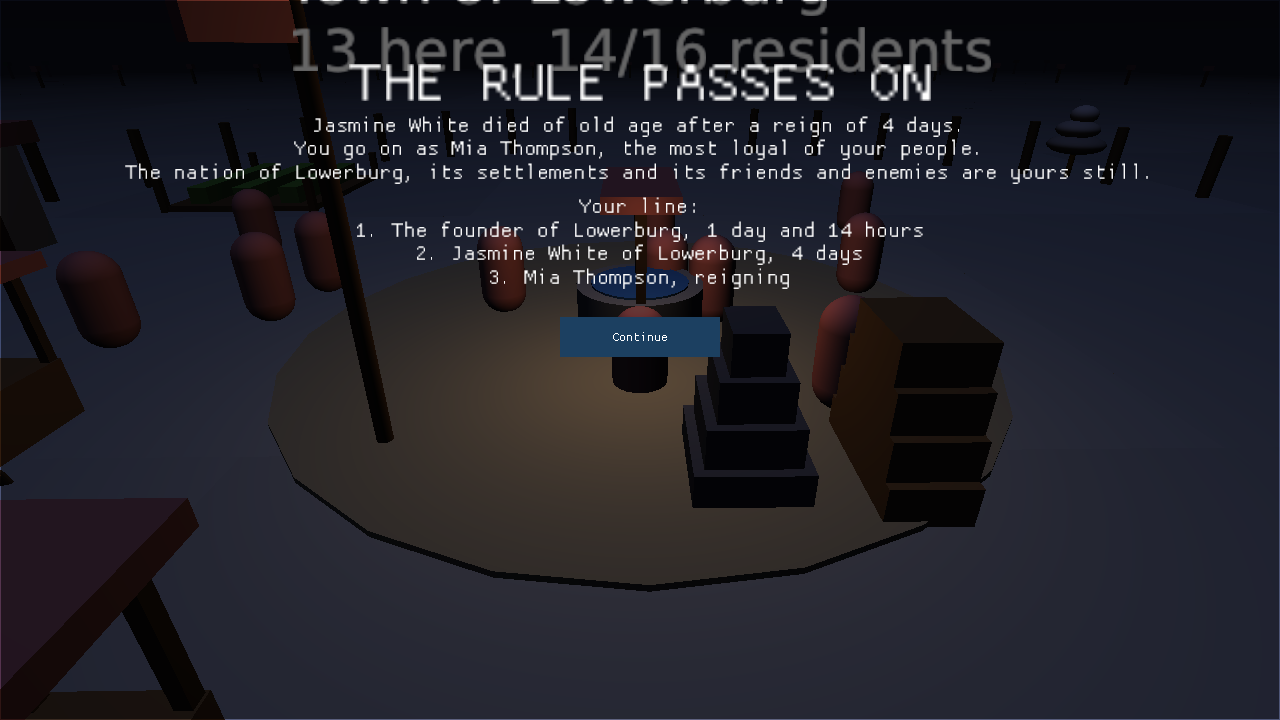
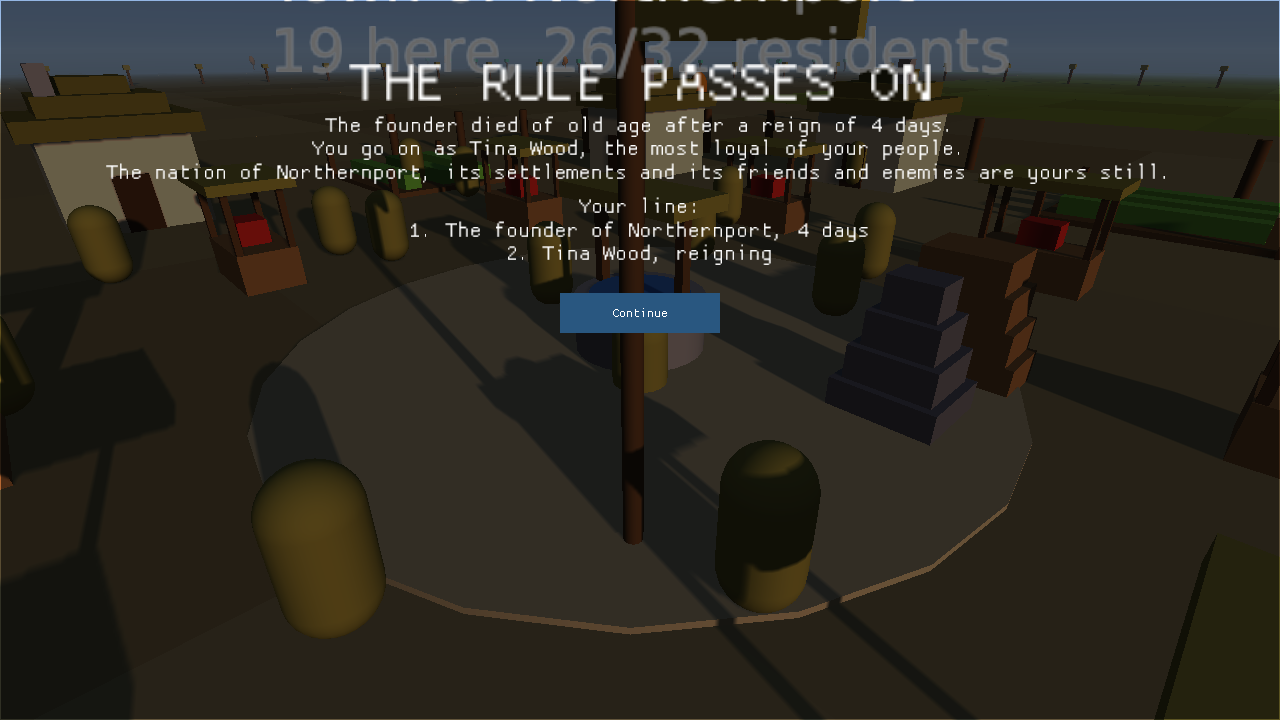
Retake the pacing chart and screenshots on develop with the day-2 Village
Claude-Session: https://claude.ai/code/session_01LYNeukxdP2eURbP7PJnoVK

diff --git a/docs/PACING.md b/docs/PACING.md
@@ -28,23 +28,23 @@ Some late content is not an objective but should come up in a normal session of 
 | `caravan` | the player has a caravan of their own on the road | 30 min |
 | `succession` | the rule has passed to an heir (old age, hunger or abdication) | 60 min |
 
-Measured on seeds 1 to 5 (one hour each): the Storehouse at 17m 13s to 17m 50s (as the Village era comes), the first caravan between a second and four and a half minutes later, and a succession on every seed. The first is of hunger at 13m 01s to 16m 06s (the bot gives its food away recruiting); that heir then grows old, is warned at 46m 10s and dies of old age at 56m 10s on seeds 2, 3 and 4. The binding objectives are unchanged to within a few seconds. Among the advisory ambitions, "Grow your nation to 16" is not reached within the hour on seed 1 (the bot now stops recruiting to put up a storehouse and send caravans, and a new ruler starts with half the old one's standing); neither it nor the others gate the build, and the objective budget is unchanged.
+Measured on seeds 1 to 5 (one hour each), with the Village era at day 2 (#455): the Storehouse at 7m 14s to 7m 49s (as the Village era comes), the first caravan within a minute after it on four seeds (18m 47s on seed 1), and a succession on every seed: of old age at 40m 00s on seeds 4 and 5, of hunger at 32m 33s to 38m 47s on seeds 1 to 3 (the bot gives its food away recruiting). The binding objectives are unchanged to within a few seconds, and the objective budget is unchanged.
 
 ![When the Storehouse, the first caravan and the first succession were reached on seeds 1 to 5](./screenshots/reachable-late-game/pacing-milestones.png)
 
-The chart is drawn from `pacing-report.json` by `python3 tools/pacing-milestones-chart.py pacing-out/pacing-report.json OUT.png src/BeyondNations.Desktop/assets/fonts/DejaVuSans.ttf` (ImageMagick). The screenshots below are the bot's own run on seed 2, saved with `--save-at` and loaded in the game with `--continue` (and `--start-screen laws`). They show:
+The chart is drawn from `pacing-report.json` by `python3 tools/pacing-milestones-chart.py pacing-out/pacing-report.json OUT.png src/BeyondNations.Desktop/assets/fonts/DejaVuSans.ttf` (ImageMagick). The screenshots below are the bot's own run on seed 4, saved with `--save-at` and loaded in the game with `--continue` (and `--start-screen laws`). They show:
 
-- the bot on day 3 of the Village era, just after it sent a caravan of 40 wood;
-- day 5, when the chronicle says the ruler, the heir who took over from a starved founder, is growing old (a drought world event is waiting for an answer, as the bot never answers one);
+- the bot on day 2 of the Village era, just after it sent a caravan of 14 wood (the caravan is on the road ahead);
+- day 4, when the chronicle says the founder is growing old;
 - the Laws tab naming the heir, with when old age comes and *Abdicate*, on desktop and phone;
-- the succession screen when that ruler dies of old age, 56 minutes in.
+- the succession screen when the founder dies of old age, 40 minutes in.
 
 A run consumes the succession notice five seconds after it appears, as a player pressing *Continue* would, so a world saved later does not open on an old succession.
 
 | | |
 |---|---|
-| ![Day 3, Village era: the chronicle says the bot sent a caravan of 40 wood](./screenshots/reachable-late-game/caravan-sent.png) | ![Day 5: the chronicle says the ruler is growing old and names the heir](./screenshots/reachable-late-game/growing-old.png) |
-| ![The Laws tab names the heir, says when old age comes, and offers Abdicate](./screenshots/reachable-late-game/laws-heir-abdicate.png) | ![The succession screen at 56 minutes: the second ruler died of old age after a reign of 4 days](./screenshots/reachable-late-game/succession-old-age.png) |
+| ![Day 2, Village era: the bot's caravan of 14 wood on the road, and the chronicle line that sent it](./screenshots/reachable-late-game/caravan-sent.png) | ![Day 4: the chronicle says the founder is growing old](./screenshots/reachable-late-game/growing-old.png) |
+| ![The Laws tab names the heir, says when old age comes, and offers Abdicate](./screenshots/reachable-late-game/laws-heir-abdicate.png) | ![The succession screen at 40 minutes: the founder died of old age after a reign of 4 days](./screenshots/reachable-late-game/succession-old-age.png) |
 
 <img src="./screenshots/reachable-late-game/laws-heir-abdicate-phone.png" alt="The Laws tab at phone size" width="270">
 

diff --git a/docs/SYSTEMS.md b/docs/SYSTEMS.md
@@ -255,7 +255,7 @@ When the player dies as a member of a nation (`Succession`), an heir from that n
 **Old age and abdication** (#372). Hunger alone almost never ended a reign, since a player who carries food eats it, so no playtest met a succession. A ruler now grows old: after three days of reign (`Realm.OLD_AGE_TICKS` less `OLD_AGE_WARNING_TICKS`; thirty minutes) the status line and chronicle say they are growing old and name the heir, and a day later (forty minutes into the reign) they die of old age and the heir takes up the rule. Old age never ends a run: a ruler with no heir lingers until a member joins. The countdown is kept from the reign's start, which saves already hold; the warning is not saved, so a loaded world warns again and gives its day before the end. A ruler who leads may also **abdicate** from the Laws tab of the nations screen (two presses, `ConfirmGate`), handing the rule to the heir at once. After old age or abdication the old ruler's belongings go to the heir with the crown rather than being dropped. The Laws tab names the heir and why, and how long the ruler has left (`Heir: Bo Smith, the most loyal of your people. Old age comes in about 32 minutes.`). The lineage records each reign's cause (hunger, old age or abdication), which the succession screen tells.
 
 ![The Laws tab names the heir and when old age comes, with Abdicate](./screenshots/reachable-late-game/laws-heir-abdicate.png)
-![The succession screen after a ruler died of old age, 56 minutes into a pacing-bot run](./screenshots/reachable-late-game/succession-old-age.png)
+![The succession screen after a ruler died of old age, 40 minutes into a pacing-bot run](./screenshots/reachable-late-game/succession-old-age.png)
 
 With no member left to succeed, the line ends and so does the run: it is a defeat (see *Eras and the end of a run*), told on the end-of-run screen, which offers *New world*, *Load* and *Main menu*, and the world is never saved again (Load brings back the last save, from before the death). A nationless wanderer still rises again as before. `--stage-succession` opens the diplomacy stage with the player about to starve; `--start-screen laws` opens the nations screen on its Laws tab.
 
